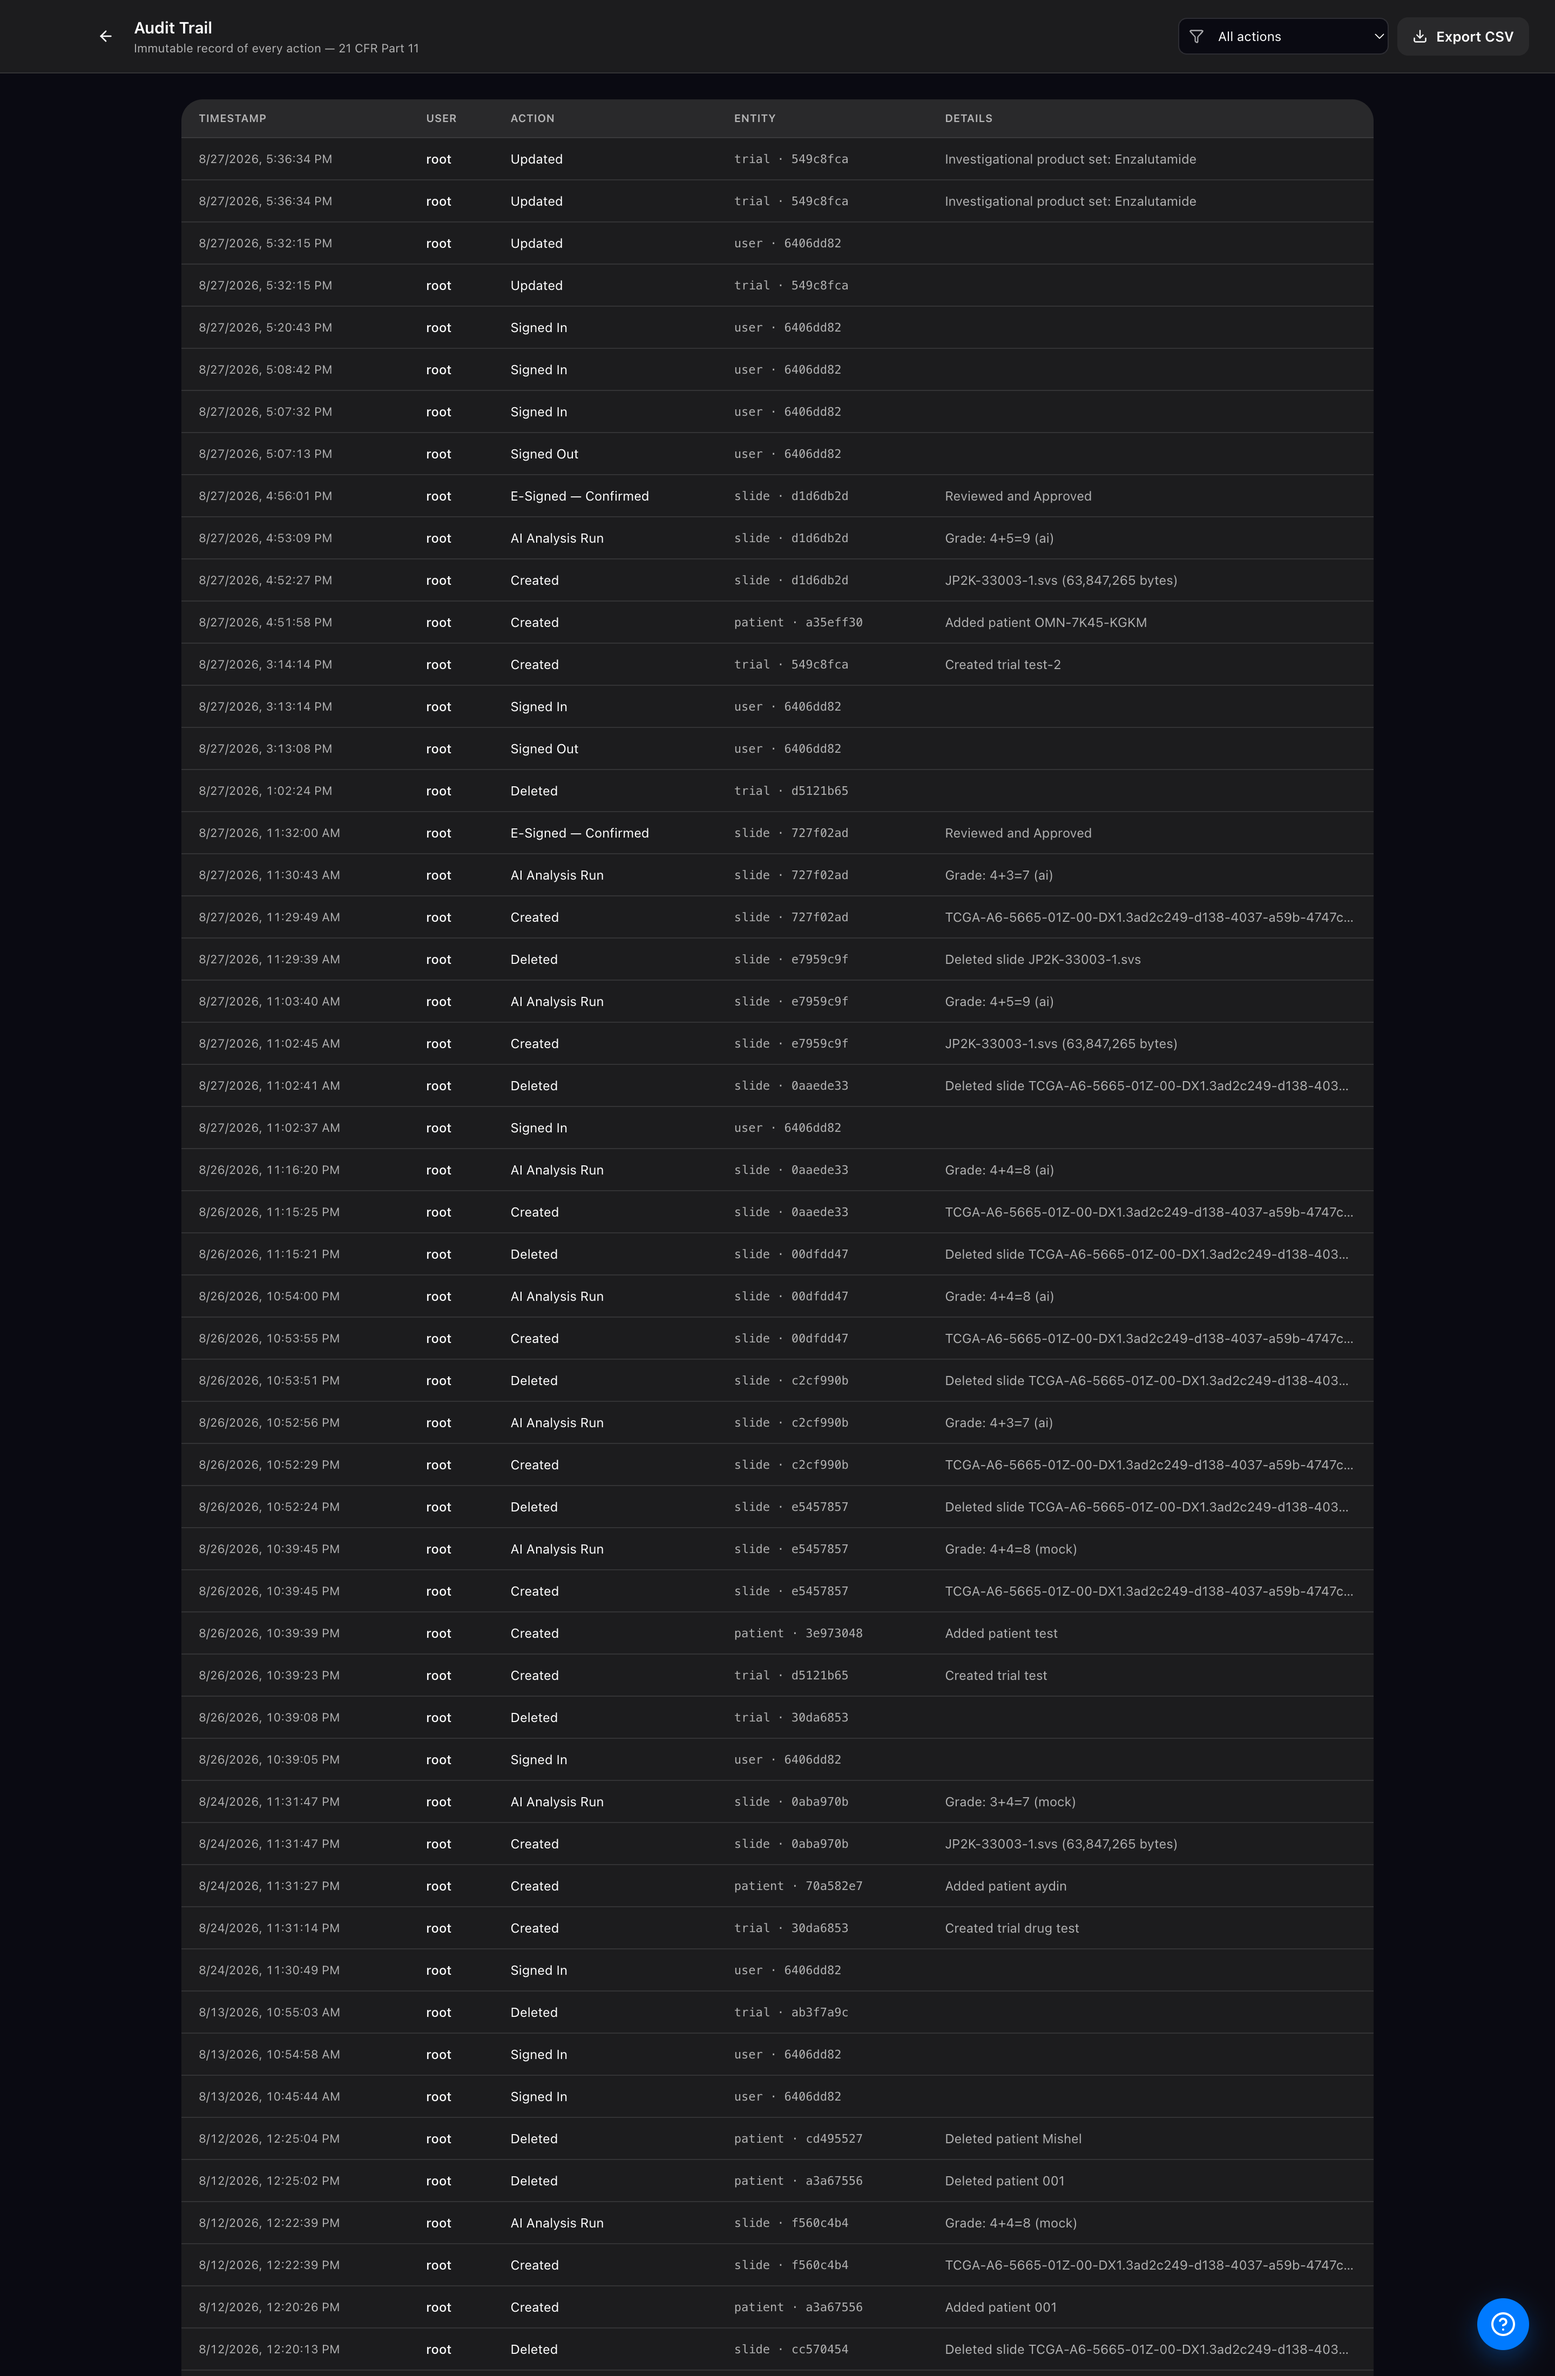
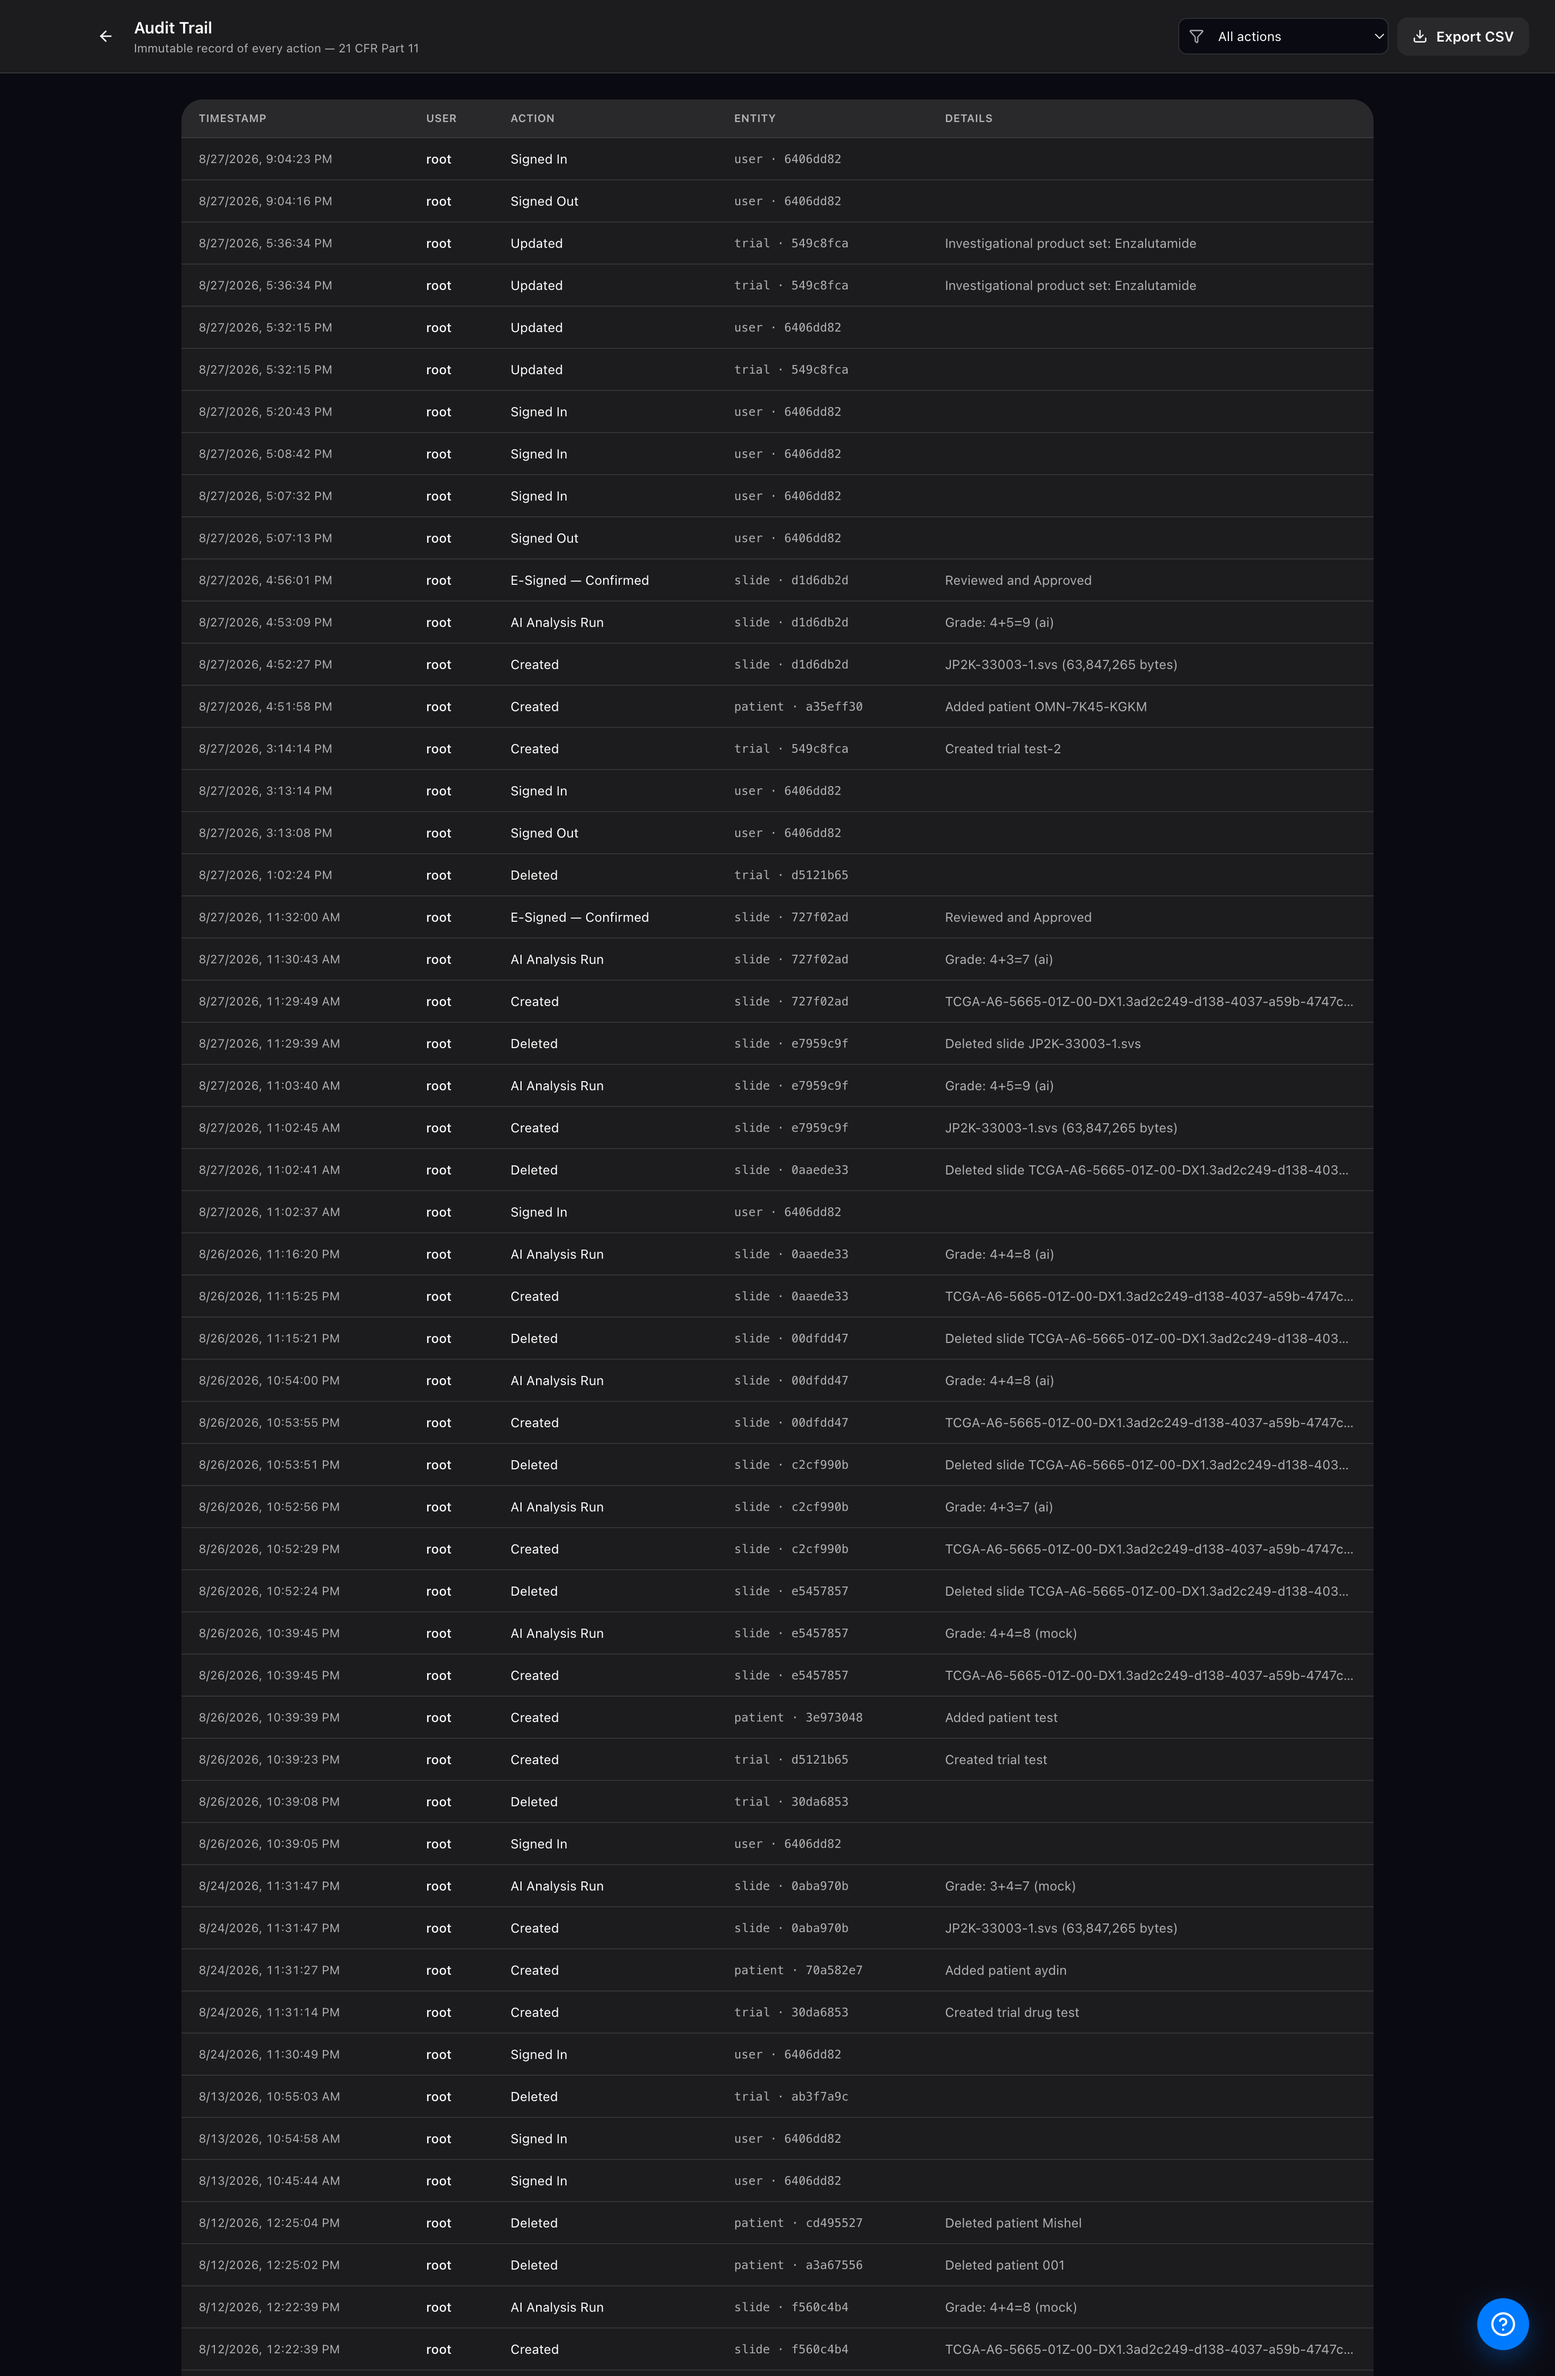
Add the AI analysis screenshot with the attention overlay
The attention view is the most informative screen in the product: it shows
which tissue the model actually weighted when grading, on the real slide,
rather than presenting a grade with no account of where it came from. It also
shows the fields the model does not produce as 'Not assessed' instead of
filling them with plausible values.

Captured from the running application at 2x against the same 60.9 MB slide as
the sample output, so the README, the JSON and the PDF all describe one real
analysis.

diff --git a/README.md b/README.md
@@ -59,6 +59,13 @@ is bundled locally.
 ## Screenshots
 
 <p align="center">
+  <img src="assets/screenshots/07-ai-analysis.png" alt="AI analysis of a whole-slide image with the attention overlay showing which tissue drove the grade" width="100%"/>
+  <br/><sub><b>AI analysis with attention overlay</b> — the model's grade on a real 60.9 MB whole-slide image,
+  with the 32 sampled regions shaded by how much each drove the result. Fields the model does not produce
+  are shown as "Not assessed" rather than filled in.</sub>
+</p>
+
+<p align="center">
   <img src="assets/screenshots/01-dashboard.png" alt="Trial dashboard showing review progress, outstanding work and portfolio totals" width="100%"/>
   <br/><sub><b>Trial dashboard</b> — what is done, what needs a pathologist, and the trial portfolio</sub>
 </p>
@@ -137,7 +144,8 @@ Real output from this model, included in the repository:
 - [`assets/sample-output/OMN-PC-301_OMN-7K45-KGKM_Baseline_report.pdf`](assets/sample-output/OMN-PC-301_OMN-7K45-KGKM_Baseline_report.pdf)
   — the signed pathology report generated from that analysis
 
-Both are genuine model output on a public slide, not synthetic examples.
+Both are genuine model output on a public slide, not synthetic examples — the
+attention overlay at the top of this README is the same analysis, rendered.
 
 ## The model
 
